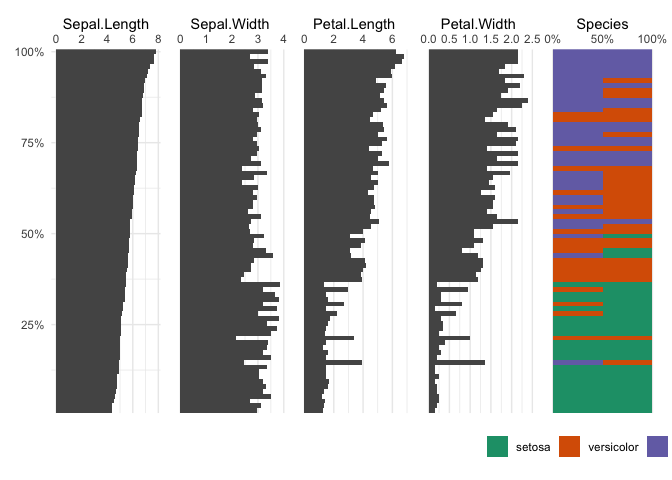
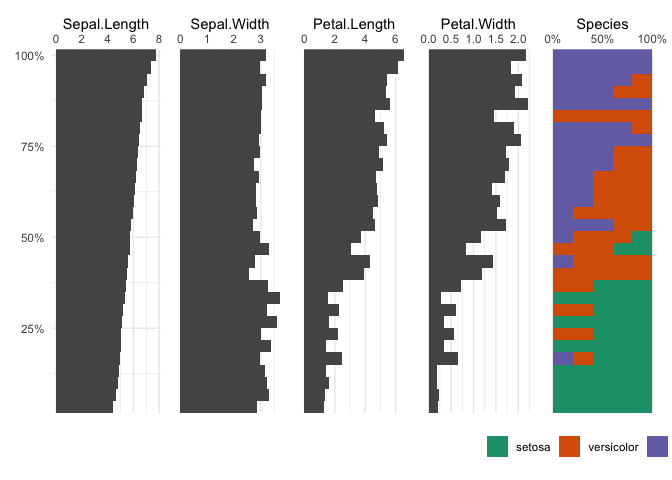
tweaking

diff --git a/README.md b/README.md
@@ -61,6 +61,7 @@ quantile_dependence_plot(penguins[1:7], c("body_mass_g"), 25)
 
 ``` r
 table_plot(iris, "Sepal.Length", 75)
+#> 'n' is larger then nrows/5 ('min_bin_size'), setting 'n' to: 30
 ```
 
 <img src="man/figures/README-cars-1.png" width="100%" />
@@ -80,3 +81,9 @@ quantile_dependence_plot(diamonds[1:6], "carat", ncols=3)
 ```
 
 <img src="man/figures/README-unnamed-chunk-5-1.png" width="100%" />
+
+``` r
+dependence_plot(diamonds, "price")
+```
+
+<img src="man/figures/README-unnamed-chunk-6-1.png" width="100%" />
